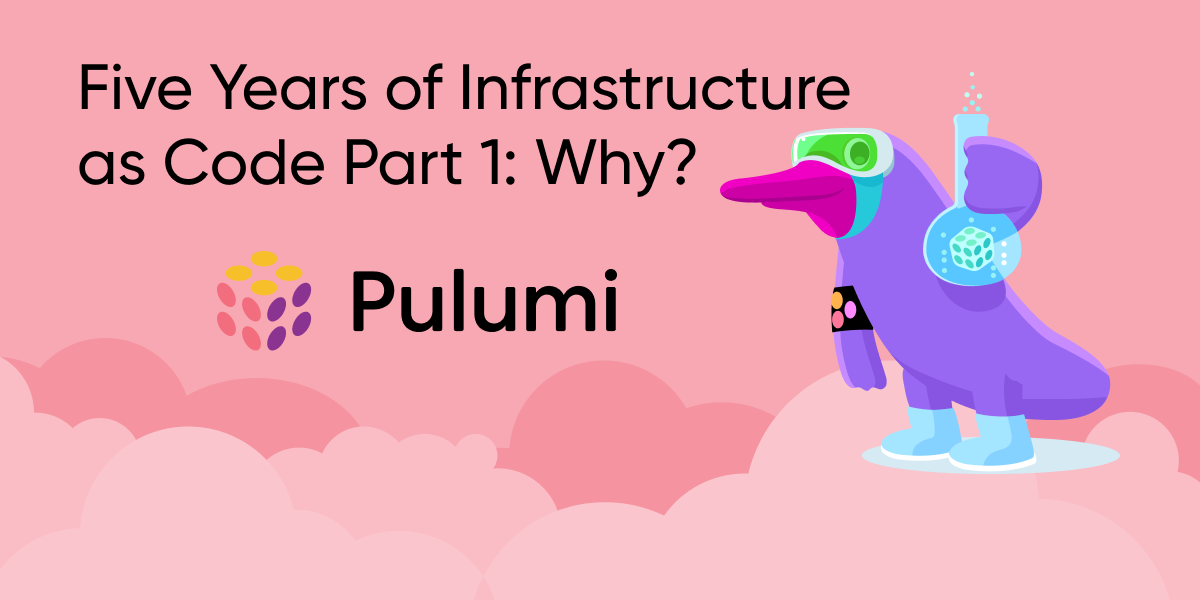
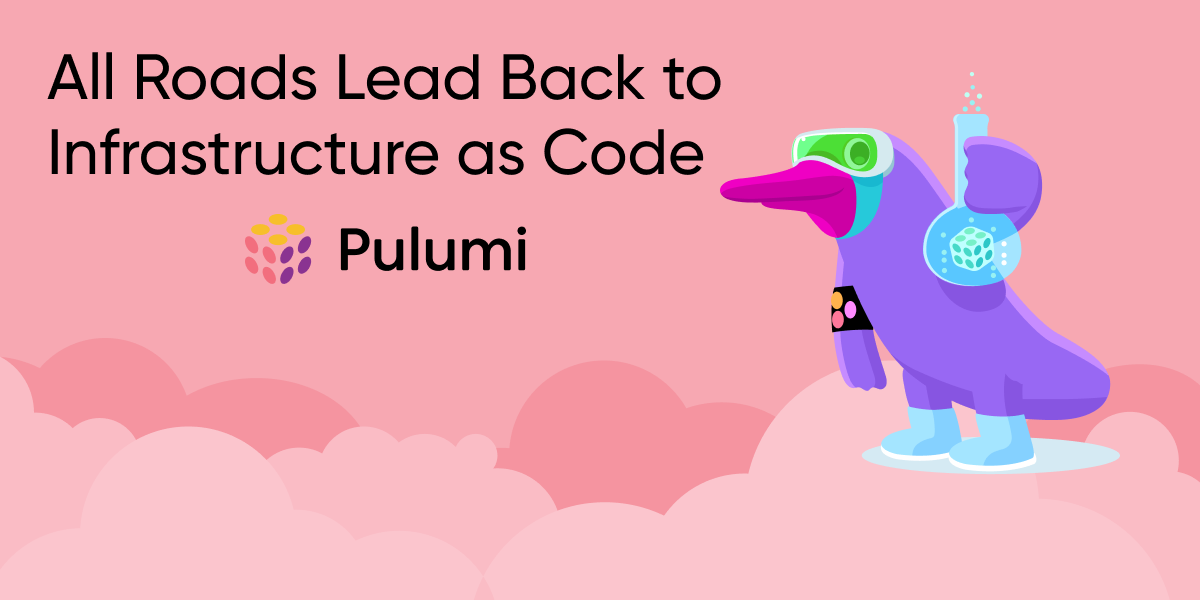
Update title and meta image

Changed region(s): [[0.185, 0.36, 0.5242, 0.6], [0.0308, 0.09, 0.7092, 0.18], [0.0308, 0.21, 0.5858, 0.33]]

diff --git a/themes/default/content/blog/five-years-of-infrastructure-as-code/index.md b/themes/default/content/blog/five-years-of-infrastructure-as-code/index.md
@@ -33,7 +33,7 @@ tags:
 
 Unbelievably, we just celebrated Pulumi's 5th birthday. To commemorate, we are publishing multi-part series on all things infrastructure as code, starting with why we’re so excited about it:
 
-- [Why Infrastructure as Code?](/blog/five-years-of-infrastructure-as-code-part-one/)
+- [All Roads Lead Back to Infrastructure as Code](/blog/five-years-of-infrastructure-as-code-part-one/)
 - Standing on the Shoulders of Giants
 - Infrastructure as Code Internals
 - Bringing Applications and Infrastructure Closer Together

diff --git a/themes/default/content/blog/five-years-of-infrastructure-as-code-part-one/index.md b/themes/default/content/blog/five-years-of-infrastructure-as-code-part-one/index.md
@@ -1,5 +1,5 @@
 ---
-title: "Why Infrastructure as Code?"
+title: "All Roads Lead Back to Infrastructure as Code"
 
 # The date represents the post's publish date, and by default corresponds with
 # the date this file was generated. Posts with future dates are visible in development,
